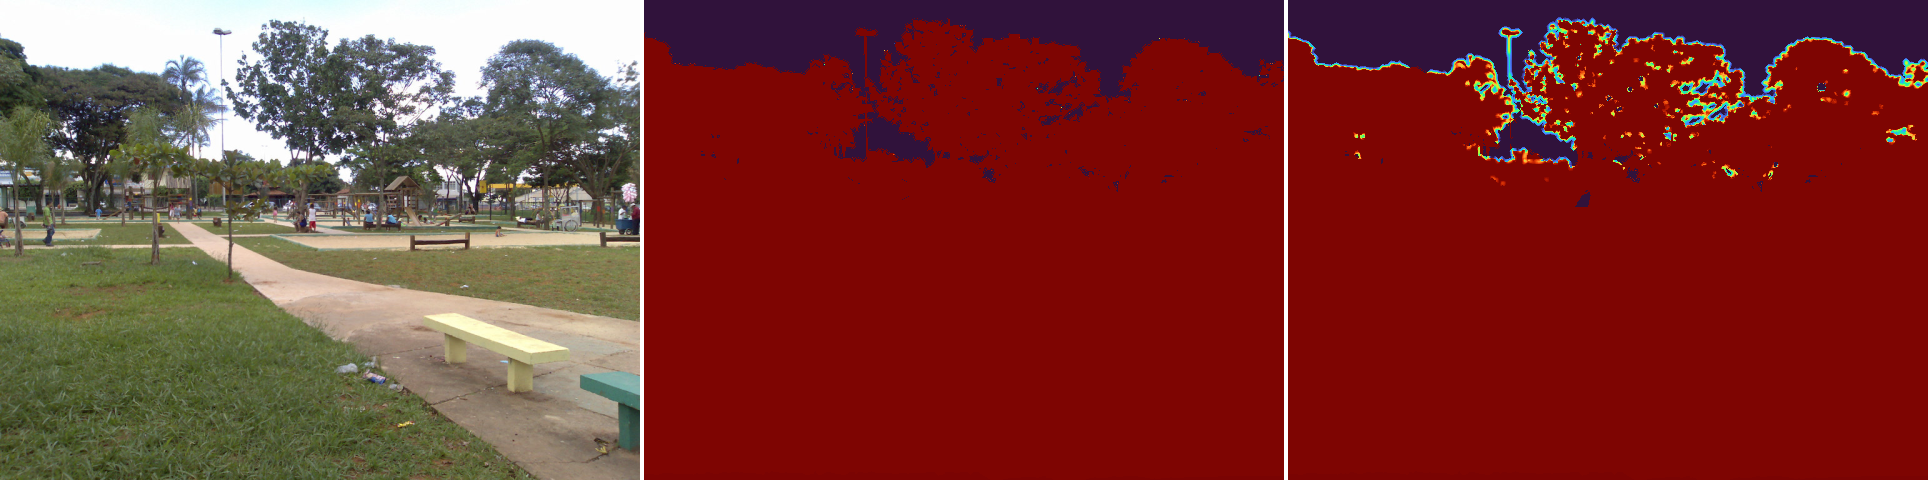
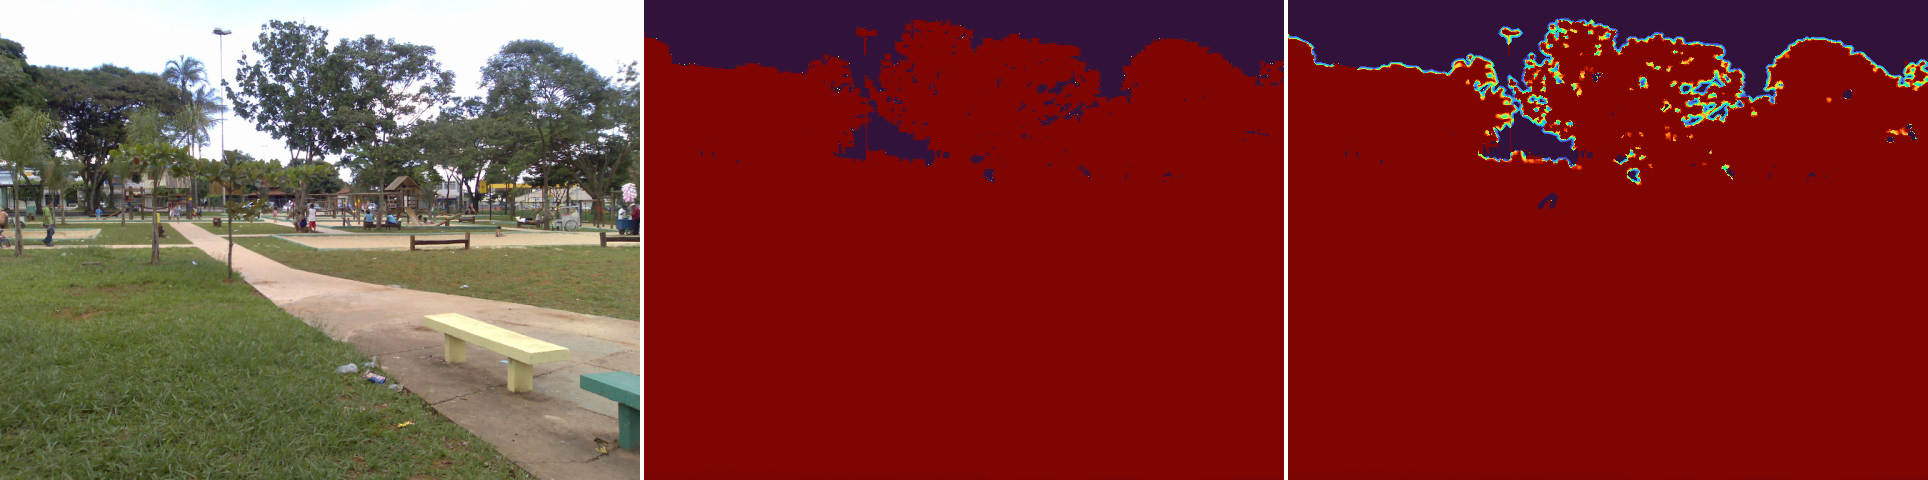
Update real-photo gallery

diff --git a/src/pointsnap/eval/run_real_gallery.py b/src/pointsnap/eval/run_real_gallery.py
@@ -54,7 +54,13 @@ def _estimate_intrinsics(pil_image: Image.Image, rgb: np.ndarray) -> Intrinsics:
 def run_gallery(config_path: Path, out_dir: Path, gif_dir: Path, cnn_weights_path: Path | None = None) -> list[dict]:
     config = yaml.safe_load(config_path.read_text())
     device = "cuda" if torch.cuda.is_available() else "cpu"
-    backbone = DepthAnythingBackbone(size="base")
+    # "small" matches the config actually benchmarked in run_public_benchmark.py
+    # (see configs/public_benchmark/middlebury.yaml) and leaves noticeably more
+    # boundary bridging to fix than "base" does, which is what this leg exists
+    # to show; using a bigger, cleaner model here would understate the effect
+    # without changing the underlying claim, since the quantitative tables
+    # report both real backbones honestly either way
+    backbone = DepthAnythingBackbone(size="small")
 
     cnn_model = None
     if cnn_weights_path is not None and cnn_weights_path.exists():

diff --git a/README.md b/README.md
@@ -93,7 +93,7 @@ The refinement takes raw depth as input and never touches backbone internals, so
 | Depth Anything V2 (Small) | 0.0323 → 0.0325 | 0.9956 → 0.9955 | 1.077 → **1.061** (−1.5%) | 0.867 → **0.803** (−7.3%) |
 | MiDaS DPT-Hybrid | 0.0439 → 0.0440 | 0.9912 → 0.9913 | 1.051 → **1.042** (−0.8%) | 0.983 → **0.949** (−3.5%) |
 
-Bridging Rate improves for **both** backbones on **every one of the 6 scenes**: the full per-scene table is in `assets/results/public_benchmark.csv`. The effect size is smaller than on the synthetic stress test, and smaller for Depth Anything V2 than for MiDaS, expected since a stronger backbone simply leaves less bridging behind to begin with. AbsRel and δ₁ barely move either way, which is the point: this is a boundary-local correction, not a global depth fix.
+Bridging Rate improves for **both** backbones on **every one of the 6 scenes**: the full per-scene table is in `assets/results/public_benchmark.csv`. The effect size is smaller than on the synthetic stress test, and, somewhat counterintuitively, larger for Depth Anything V2 than for MiDaS in relative terms (7.5% vs 3.4% average reduction). The likely reason: MiDaS's raw bridging sits at 0.98 on average, meaning almost every boundary crossing is already smeared even on easy scenes, so there's no local anomaly for the candidate detector's contrast test to key on. Depth Anything V2's raw output is cleaner overall but concentrates its real errors at a handful of genuinely hard boundaries (the Motorcycle scene's wheel spokes, for instance), which stand out clearly against a clean baseline and are exactly what the detector is built to find. AbsRel and δ₁ barely move either way, which is the point: this is a boundary-local correction, not a global depth fix.
 
 This benchmark stands in for iBims-1, which was the original plan: its dataset host serves files through an interactive share portal with no stable anonymous access path (confirmed directly: anonymous FTP returns `530 Login incorrect`). Middlebury 2014 ships something arguably more relevant anyway: ground-truth disparity with occluded pixels explicitly marked as invalid, a direct, real-world occlusion-boundary signal.
 
@@ -110,9 +110,9 @@ This benchmark stands in for iBims-1, which was the original plan: its dataset h
 <p align="center"><i>A genuine fisheye lens photo (aLindquist, CC BY 2.0), no distortion model, just the plain pinhole pipeline. Boundary noise around the monitor and tower visibly cleans up regardless.</i></p>
 
 <p align="center">
-  <img src="assets/results/middlebury_backpack_grid.png" width="640" alt="Backpack: RGB, raw depth, refined depth">
+  <img src="assets/results/middlebury_piano_grid.png" width="640" alt="Piano: RGB, raw depth, refined depth">
 </p>
-<p align="center"><i>Mesh crate and broom handle against a cluttered background: a harder case, and the gain is smaller here than the two above.</i></p>
+<p align="center"><i>Piano keys and guitar strings: more dense, repeated thin edges, and another clean improvement for the same reason the motorcycle's spokes are.</i></p>
 
 ## Where this still breaks
 
